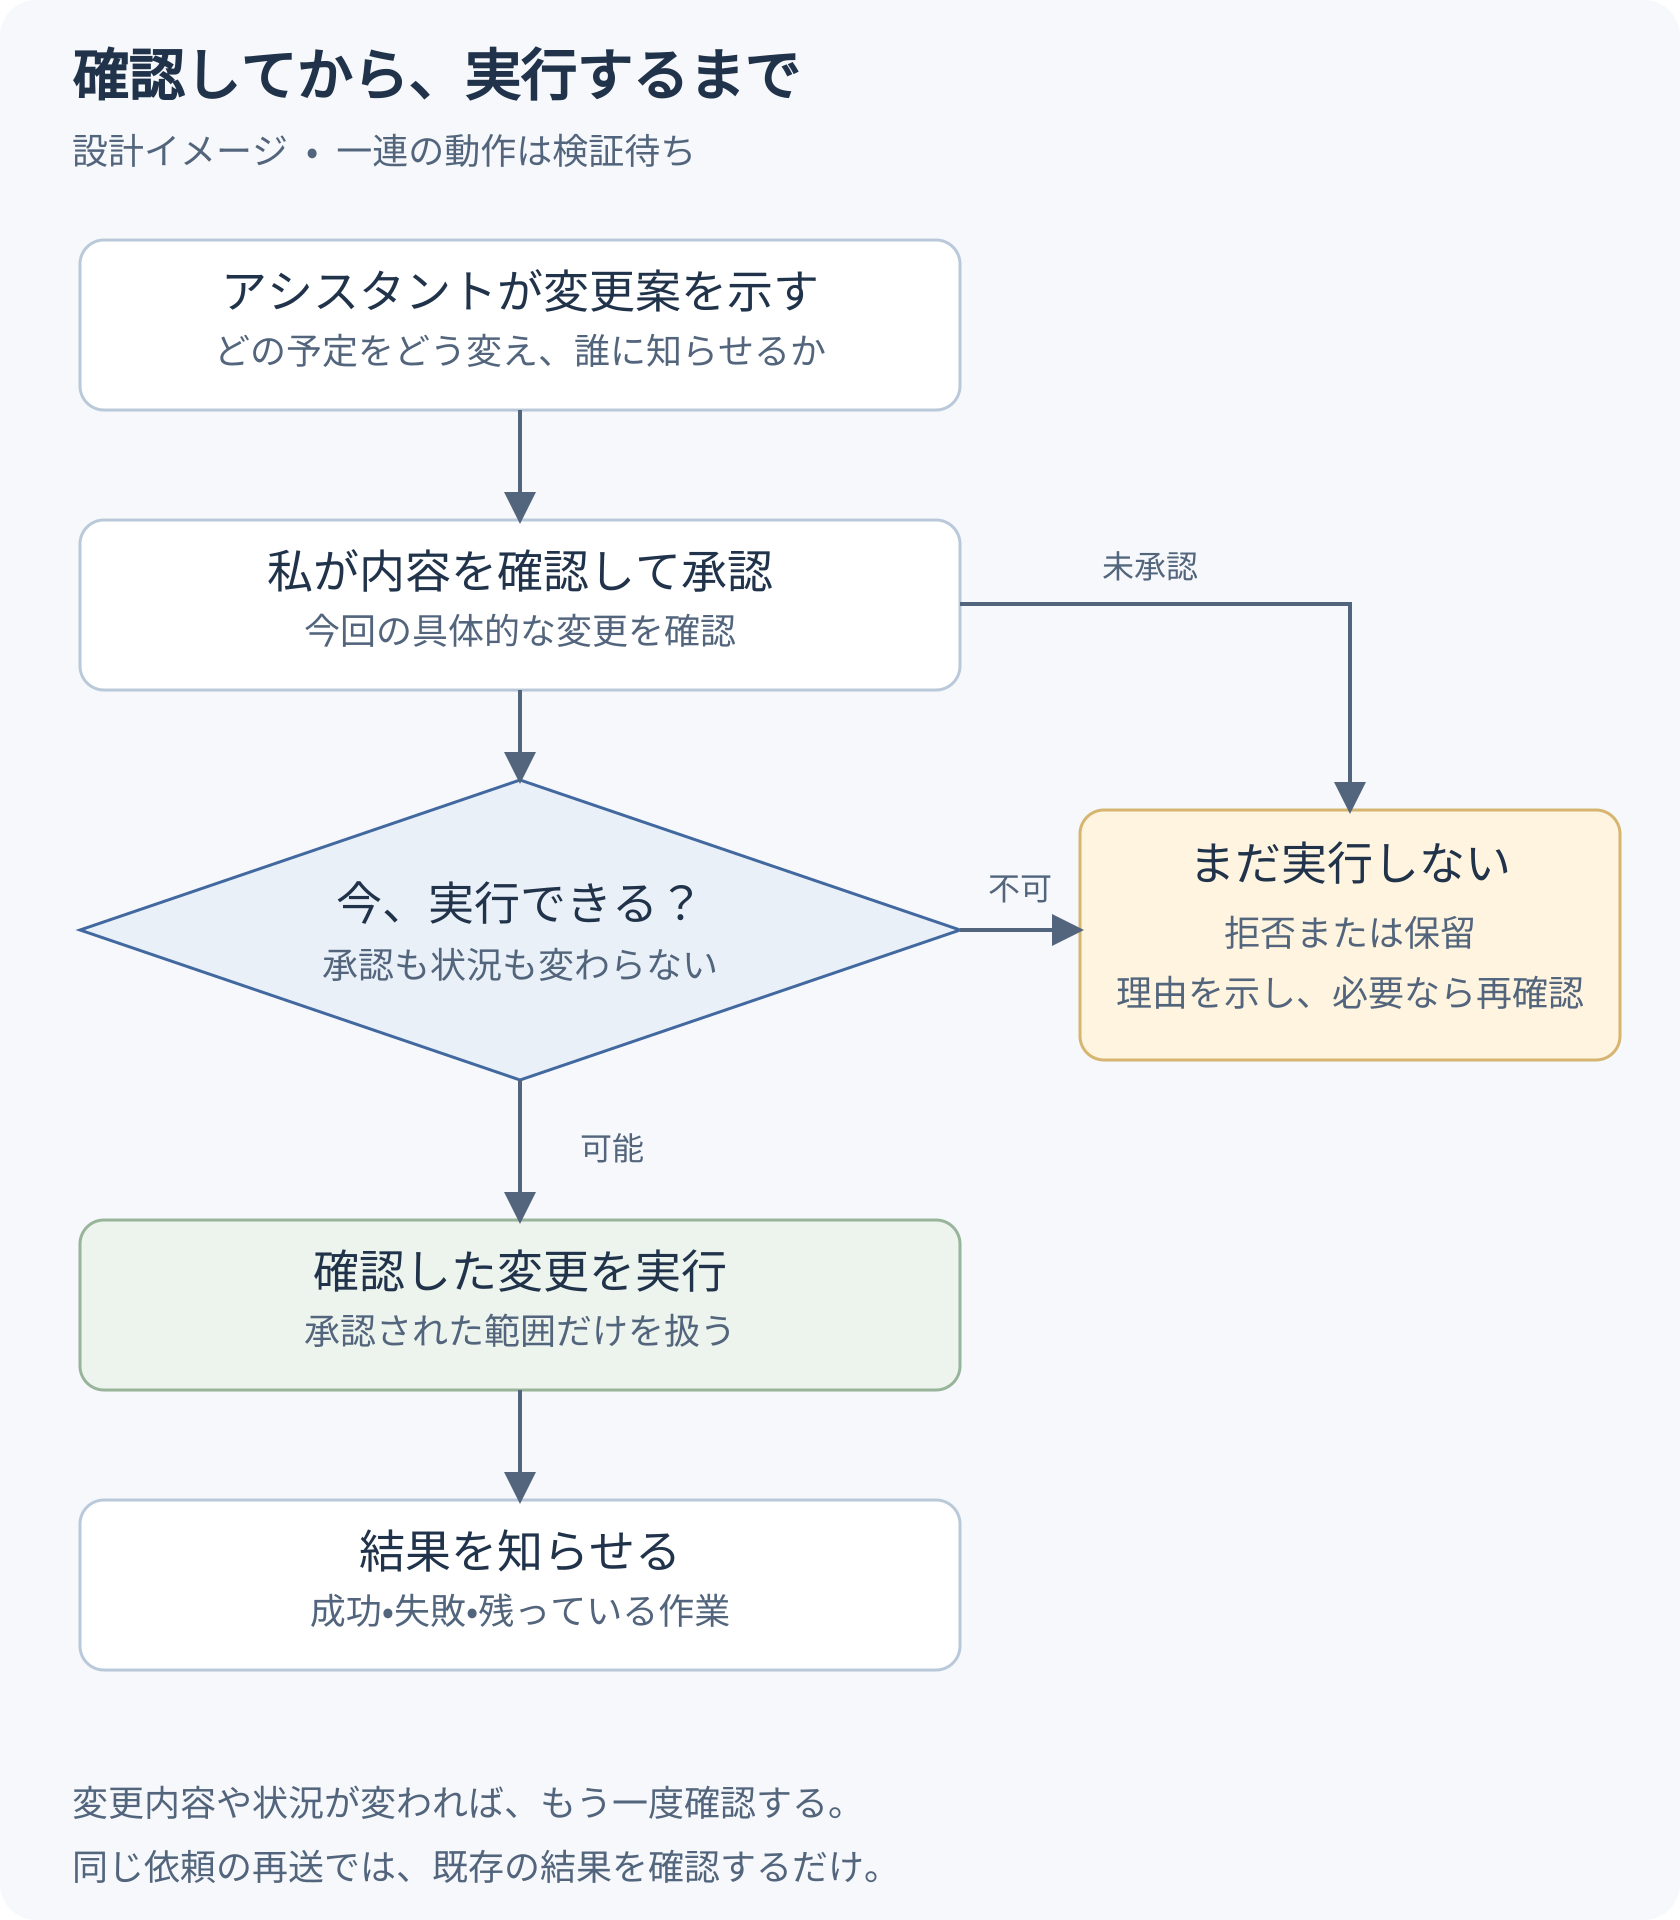
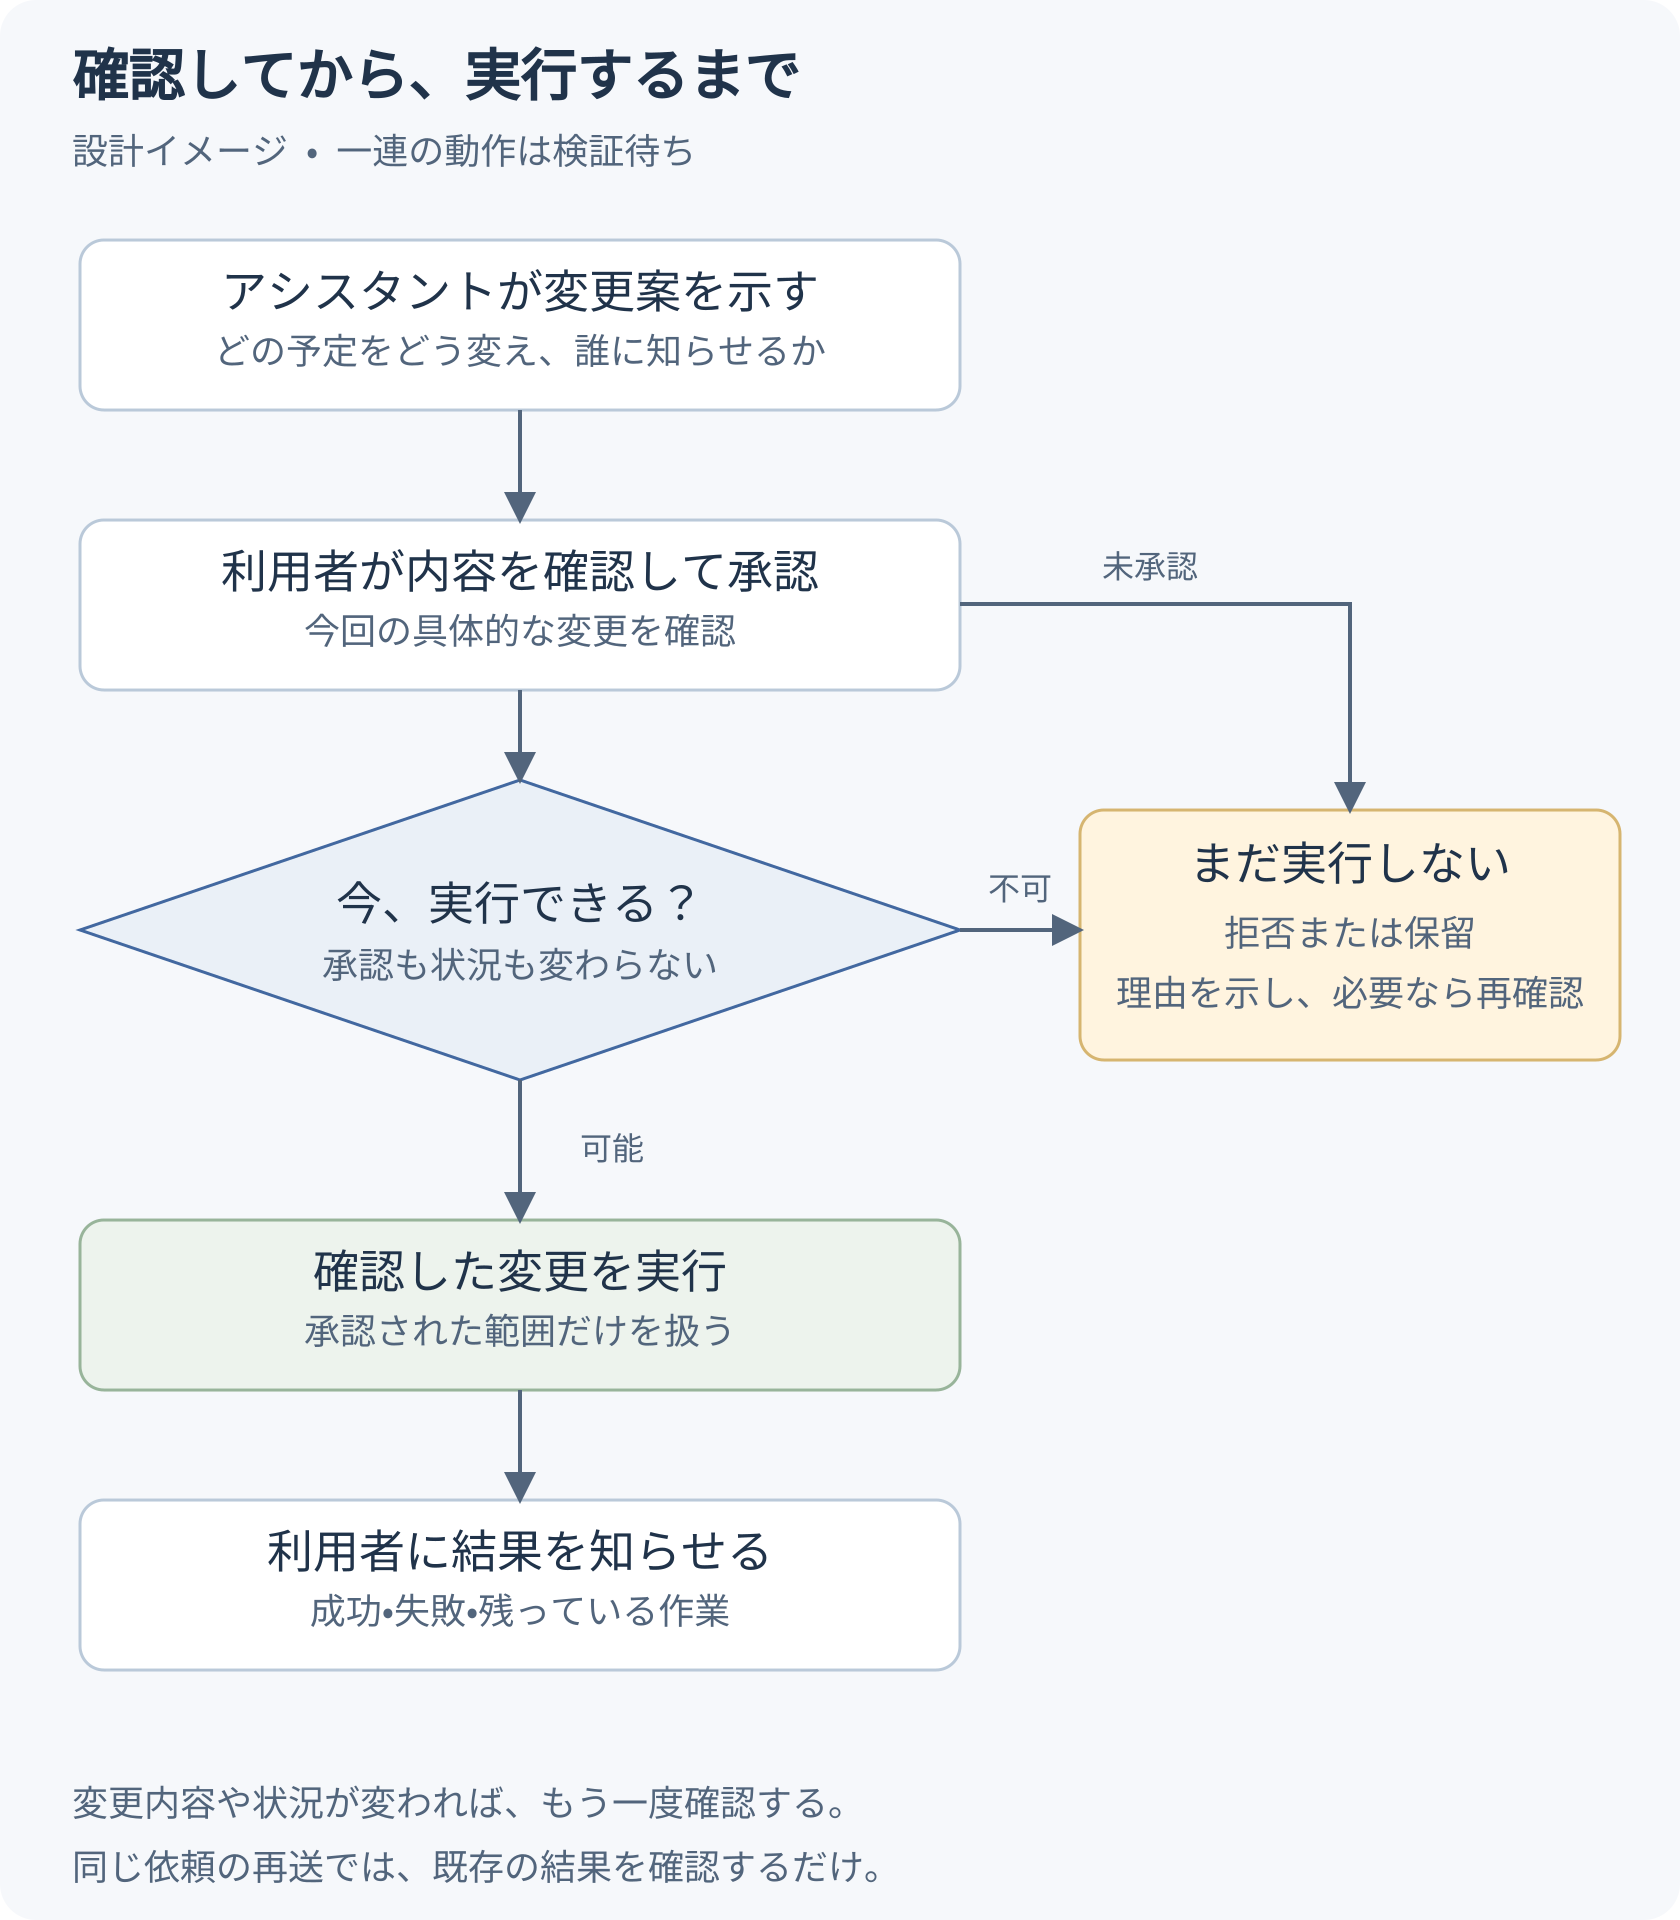
content: name the user explicitly in approval diagrams

Changed region(s): [[0.1238, 0.2812, 0.4952, 0.3125], [0.1548, 0.7812, 0.4643, 0.8438]]

diff --git a/docs/content.md b/docs/content.md
@@ -18,7 +18,7 @@ Amanuensis handles information triage and attention-aware delivery within Yaaa. 
 
 ## Assets and links
 
-Each architecture diagram has a 2320 × 1320 PNG and an editable SVG beside it. The approval flow has a 1680 × 1920 PNG and an editable SVG at `public/images/yaaa/approval-flow-<language>.*`. The approval diagram shows five user-facing steps and a refusal/defer branch; signing, hashing, and nonce details belong in the accompanying prose. Use the matching language's PNGs in each article. Use root-relative `/images/yaaa/<name>-<language>.png` paths in Markdown; the existing base-links plugin adds the configured mount at build time. Do not include `/tech` twice or copy workstation paths into content.
+Each architecture diagram has a 2320 × 1320 PNG and an editable SVG beside it. The approval flow has a 1680 × 1920 PNG and an editable SVG at `public/images/yaaa/approval-flow-<language>.*`. Diagram labels name the actor explicitly (user or assistant), avoiding an ambiguous first-person narrator. The approval diagram shows five user-facing steps and a refusal/defer branch; signing, hashing, and nonce details belong in the accompanying prose. Use the matching language's PNGs in each article. Use root-relative `/images/yaaa/<name>-<language>.png` paths in Markdown; the existing base-links plugin adds the configured mount at build time. Do not include `/tech` twice or copy workstation paths into content.
 
 Language links for articles are generated from real content entries. Each article displays both diagrams in its own language, without links to other language images. Preserve alt text and the conceptual-design caption. The first body mention of Yaaa links to its portfolio project page; introduce Amanuensis and link to its portfolio project page before using the component name in the progress table. Keep progress descriptions in plain language and preserve the October 25, 2026 evidence date until new evidence supports an update.
 

diff --git a/src/content/posts/ja/yaaa.md b/src/content/posts/ja/yaaa.md
@@ -85,7 +85,7 @@ def cloud_eligible(sensitivity, sources):
 
 アシスタントは「予約を火曜の午後へ動かす」と提案できます。実行側には、アカウント、予定、新しい時刻、相手への通知の有無が必要です。承認は利用者が実際に確認した内容に紐付けます。
 
-![承認フロー：変更案を示し、私が確認・承認した後、実行可能か確かめて実行し、結果を知らせる。未承認または実行できない場合は止めて理由を示す](/images/yaaa/approval-flow-ja.png)
+![承認フロー：変更案を示し、利用者が確認・承認した後、実行可能か確かめて実行し、結果を知らせる。未承認または実行できない場合は止めて理由を示す](/images/yaaa/approval-flow-ja.png)
 
 _図は利用者がたどる手順を示します。変更内容や状況が変われば再確認し、同じ依頼を再送しても再実行しません。一連の動作はまだ検証待ちです。_
 

diff --git a/src/content/posts/en/yaaa.md b/src/content/posts/en/yaaa.md
@@ -85,7 +85,7 @@ Here, `sources` contains validated pairs of identifiers, not paths supplied by a
 
 The assistant may propose moving the appointment to Tuesday afternoon. The executor needs the account, event, new time, and whether the other party should be notified. Approval should bind to the content the user actually reviewed.
 
-![Approval flow: propose a change, review and confirm, check whether it can proceed, act, and show the outcome; otherwise stop and explain why](/images/yaaa/approval-flow-en.png)
+![Approval flow: the assistant proposes a change, the user reviews and approves it, the system checks whether it can proceed, then executes and reports the outcome; otherwise it stops and explains why](/images/yaaa/approval-flow-en.png)
 
 _The diagram shows the steps a user sees. Changes require fresh confirmation, and repeated requests must not repeat the action. The complete flow still awaits validation._
 

diff --git a/src/content/posts/zh/yaaa.md b/src/content/posts/zh/yaaa.md
@@ -85,7 +85,7 @@ def cloud_eligible(sensitivity, sources):
 
 助理可以提出“把预约挪到周二下午”。执行器需要知道具体账户、事件、目标时间，以及是否要通知对方。批准应绑定到用户实际看过的内容。
 
-![批准流程：助理列出改动，我核对并确认，检查能否执行，执行后告诉我结果；未确认或不能执行时，先暂停并说明原因](/images/yaaa/approval-flow-zh.png)
+![批准流程：助理列出改动，用户核对并批准，检查能否执行，执行后告诉我结果；未确认或不能执行时，先暂停并说明原因](/images/yaaa/approval-flow-zh.png)
 
 _图只展示用户会经历的步骤。改动内容或情况变化后要重新确认，重复提交不会重复执行；这套完整流程仍待验收。_
 
